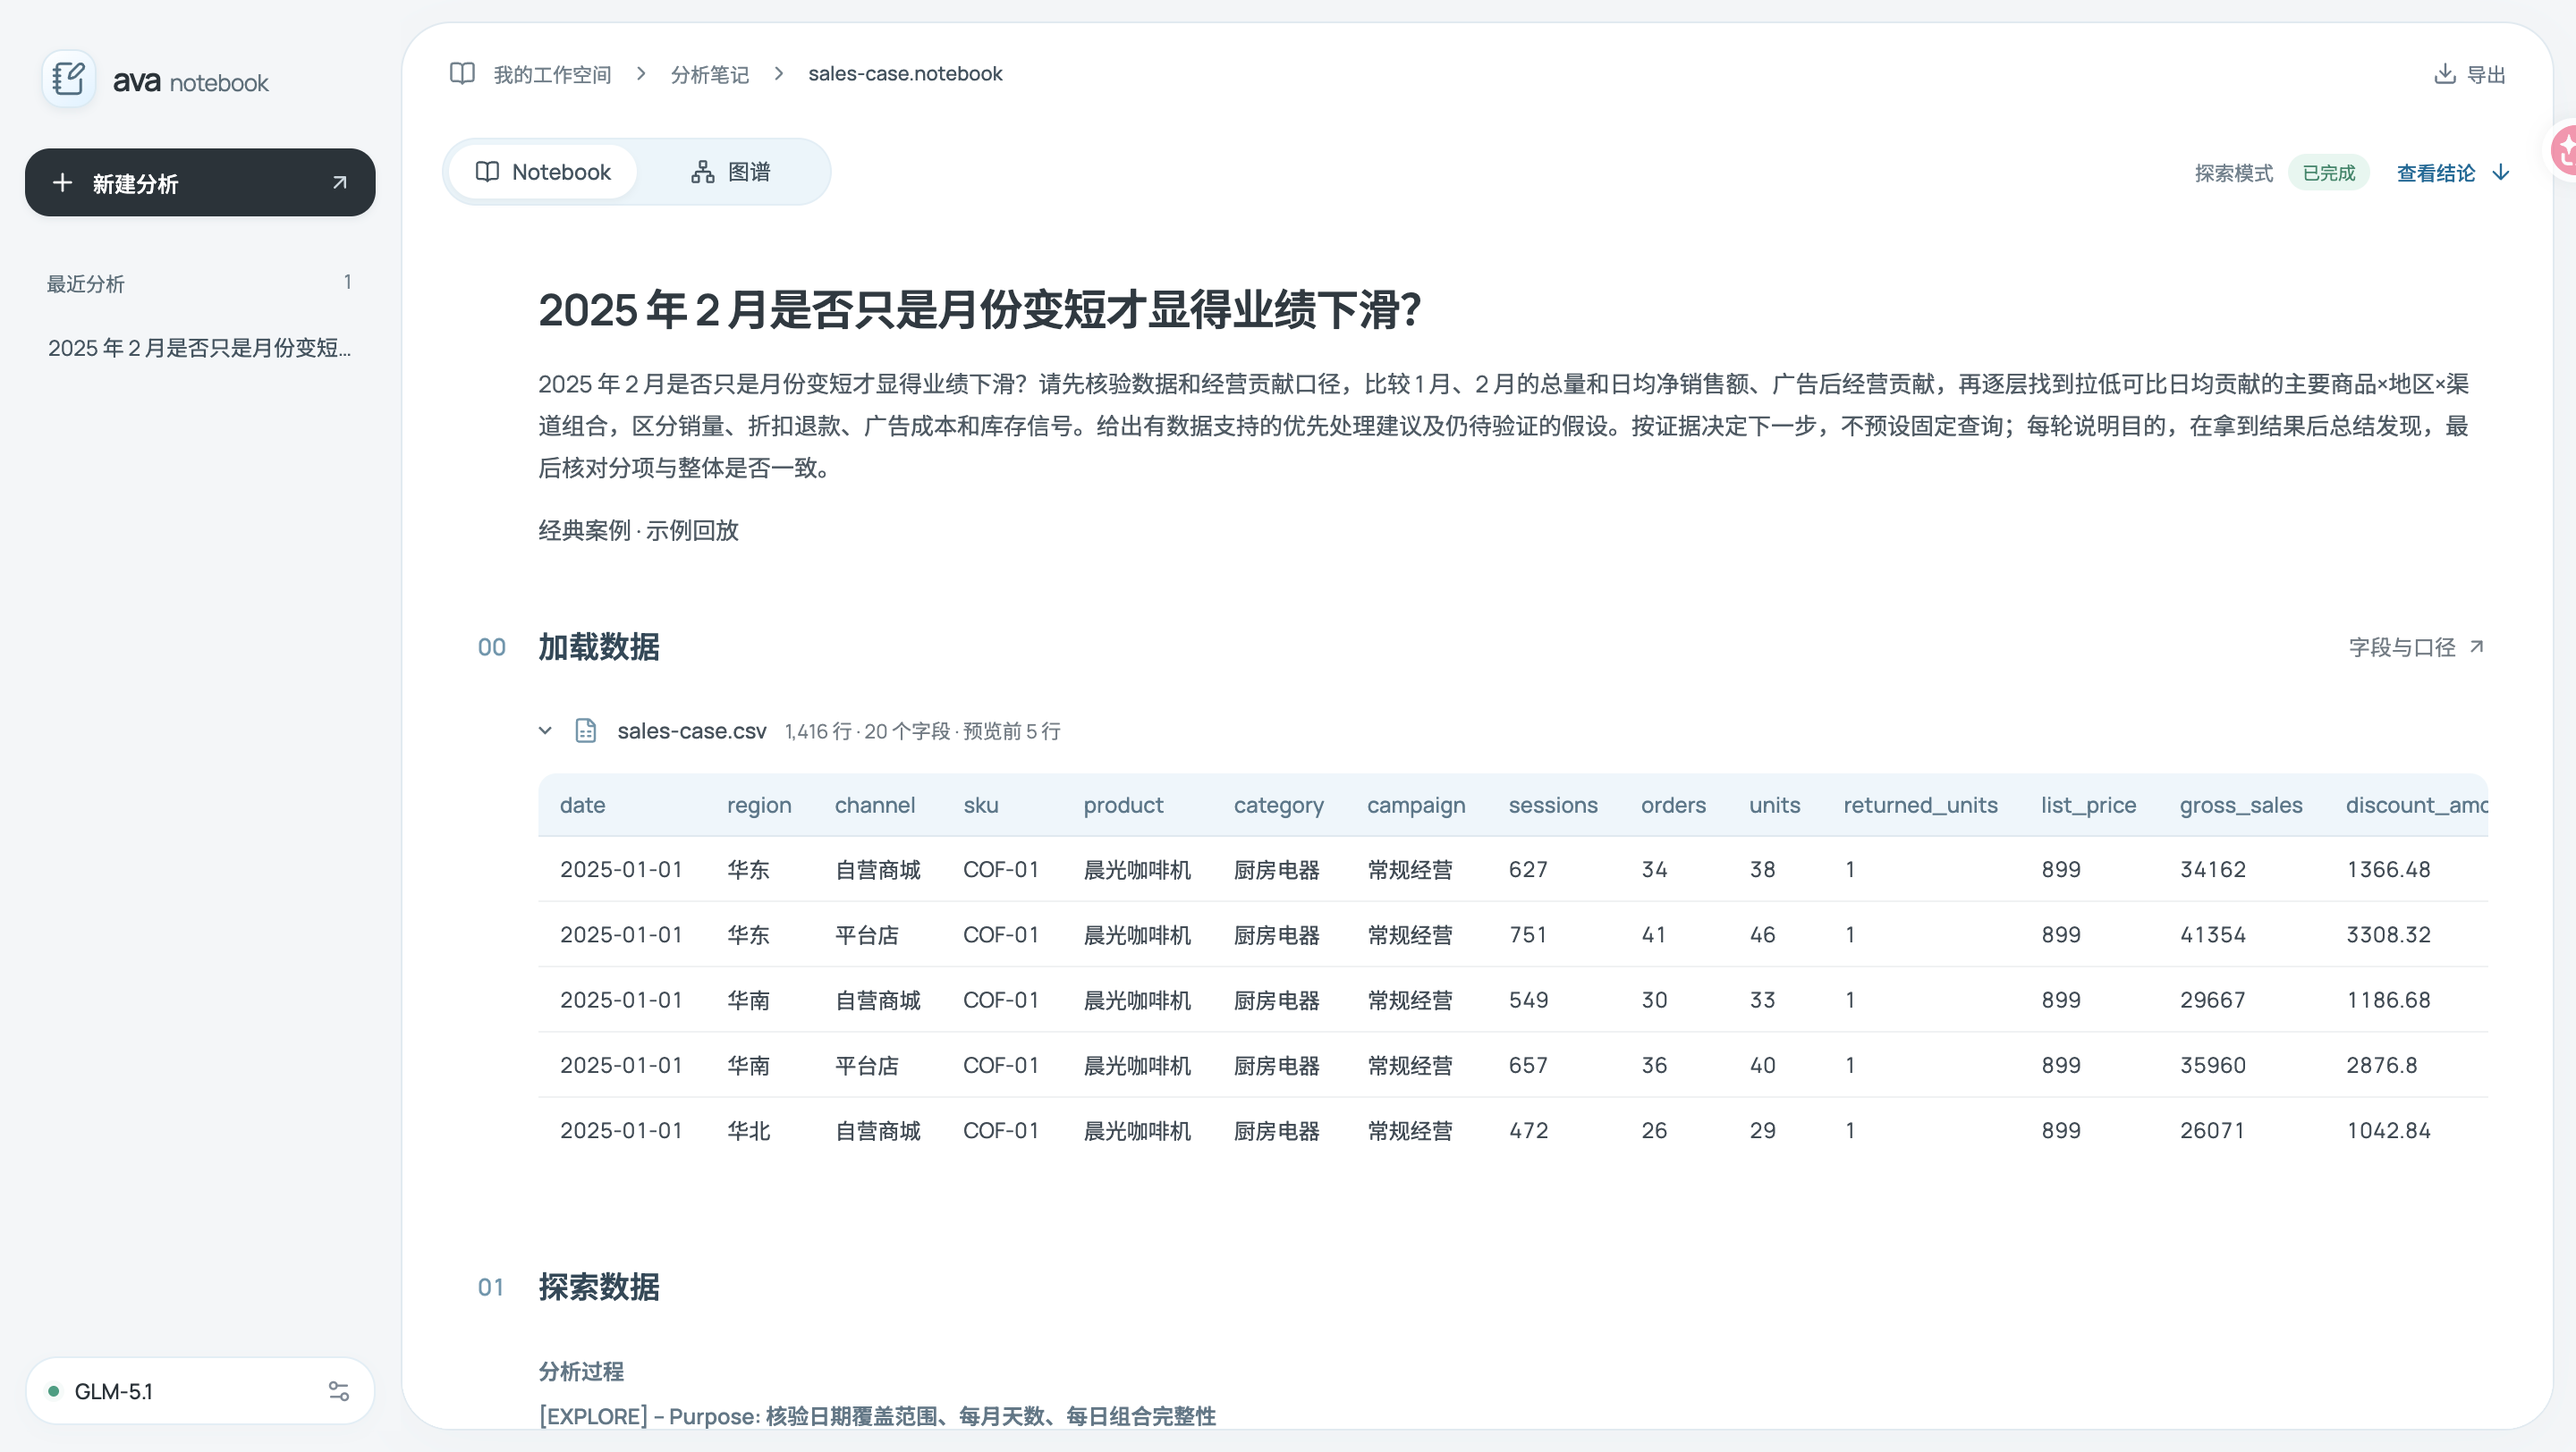
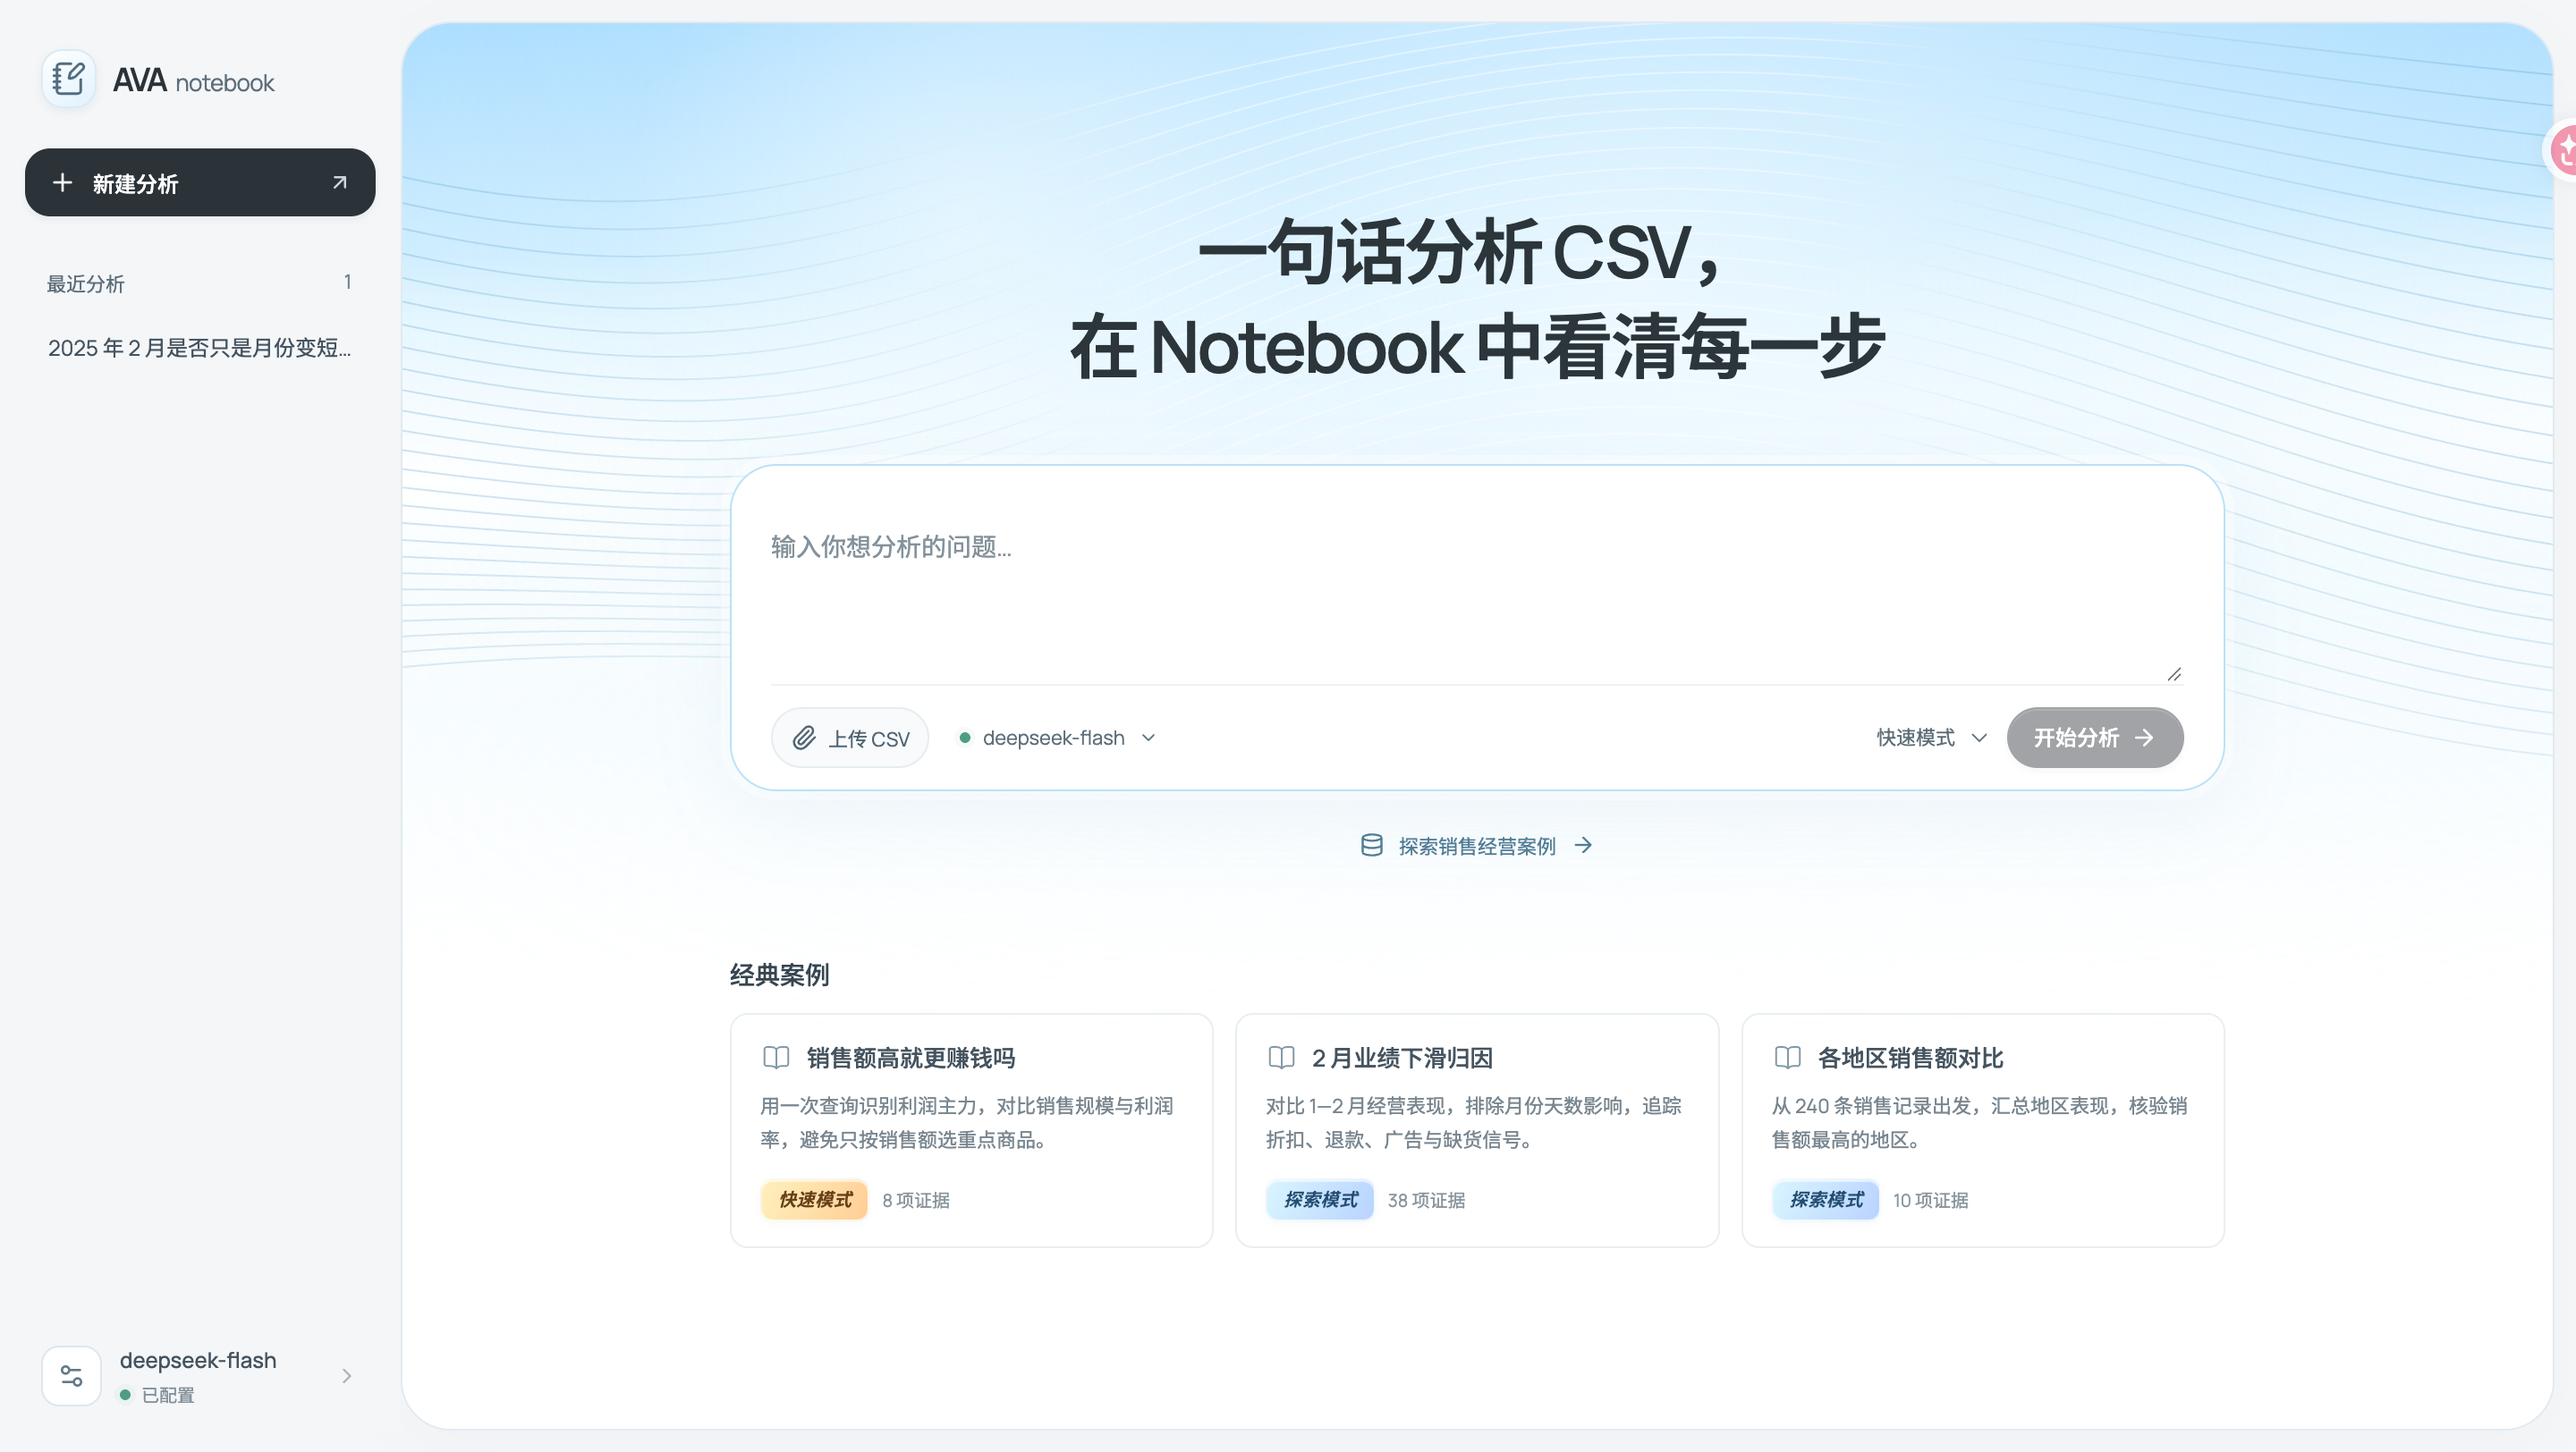
fix(site): refresh notebook screenshot and use 4:3 DuckDB visual

diff --git a/site/components/landing/Ecosystem.tsx b/site/components/landing/Ecosystem.tsx
@@ -130,7 +130,7 @@ function ProjectCard({
       aria-roledescription="slide"
       aria-label={`${index + 1} of ${PROJECTS.length}: ${project.name}`}
     >
-      <div className={styles.visual}>
+      <div className={styles.visual} data-kind={project.kind}>
         {'image' in project ? (
           <img src={project.image} alt={`${project.name} project screenshot`} width="640" height="360" loading="lazy" />
         ) : (

diff --git a/site/components/landing/Ecosystem.module.css b/site/components/landing/Ecosystem.module.css
@@ -61,6 +61,16 @@
   height: 100%;
   object-fit: contain;
 }
+.visual[data-kind='sql'] {
+  height: auto;
+  aspect-ratio: 4 / 3;
+  background: #191919;
+}
+.visual[data-kind='sql'] > img {
+  object-fit: contain;
+  object-position: center;
+  transform: scale(1.25);
+}
 .cardBody {
   display: flex;
   flex-direction: column;
